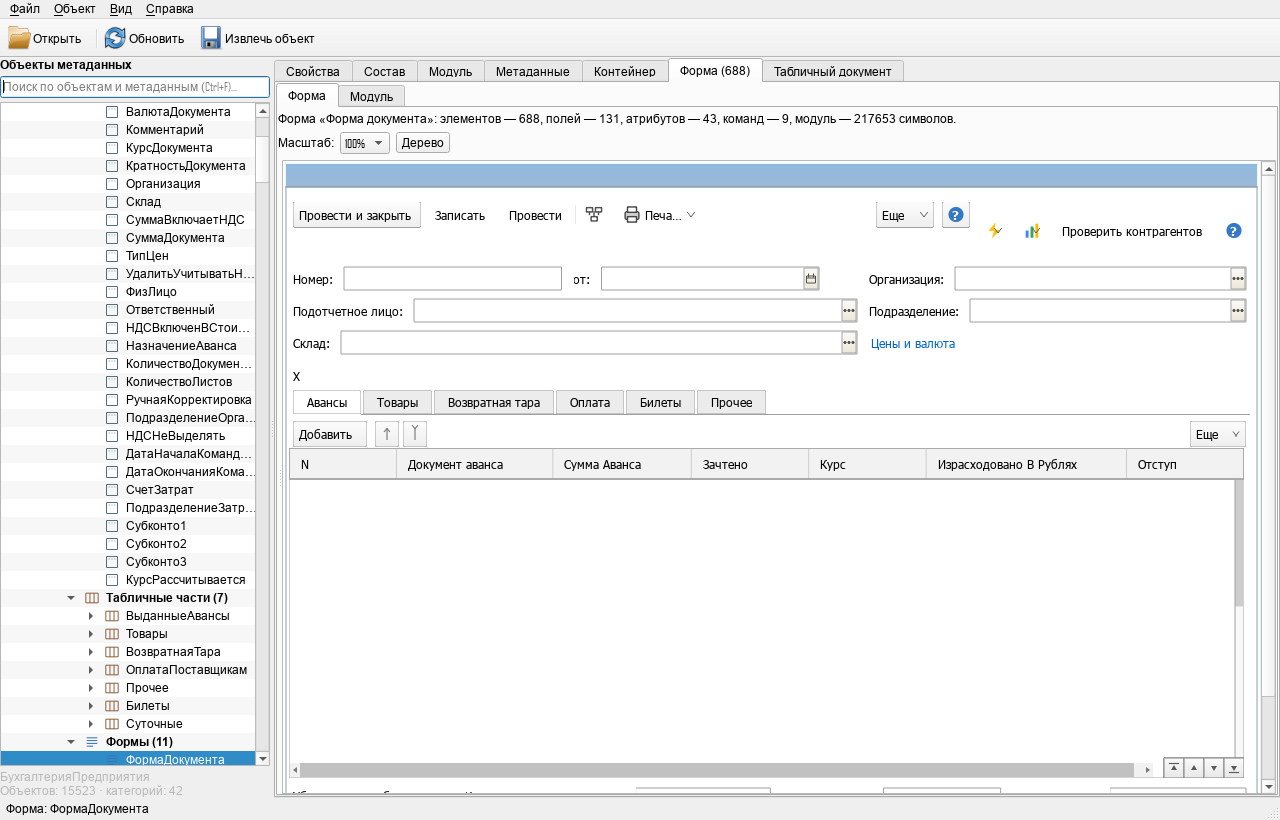
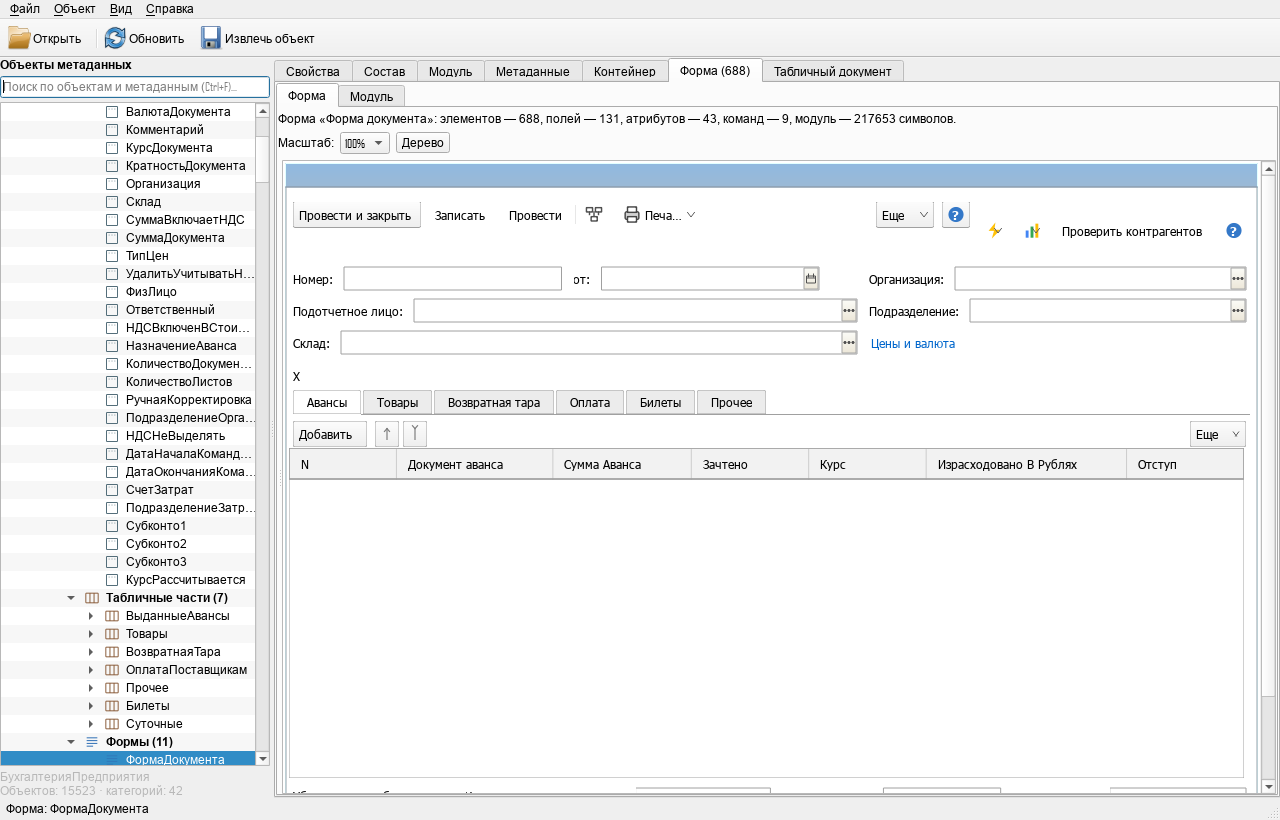
fix(forms): убрана лишняя вертикальная прокрутка таблицы

Changed region(s): [[0.2188, 0.9146, 0.9688, 0.9451], [0.9375, 0.5793, 0.9688, 0.7317]]

diff --git a/src/gui/controls/TableControl.cpp b/src/gui/controls/TableControl.cpp
@@ -24,7 +24,7 @@ void paintTable(QPainter &painter, const TableVisual &visual,
             widths.append(rect.width() / columns.size());
     }
     const double headerHeight = FormStyle::tableHeaderHeight;
-    const double verticalScrollWidth = 10.0;
+    const double verticalScrollWidth = 0.0;
     const double actionWidth = visual.actionColumn ? 37.0 : 0.0;
     const double contentWidth = std::max(1.0, rect.width() - verticalScrollWidth);
     double columnsTotal = actionWidth;
@@ -86,20 +86,6 @@ void paintTable(QPainter &painter, const TableVisual &visual,
     // Пустая таблица конфигуратора — белое поле без строк.
     painter.setPen(FormStyle::tableBorder);
     painter.drawRect(QRectF(rect.left(), rect.top(), rect.width(), tableHeight));
-
-    // Вертикальная полоса прокрутки вдоль правого края таблицы.
-    const QRectF verticalTrack(rect.right() - 9.0,
-                               rect.top() + headerHeight + 1.0, 8.0,
-                               std::max(1.0, tableHeight - headerHeight
-                                   - scrollHeight - 2.0));
-    painter.fillRect(verticalTrack, QColor(248, 248, 248));
-    const double verticalThumb = std::max(24.0, verticalTrack.height() * 0.45);
-    painter.fillRect(QRectF(verticalTrack.left(), verticalTrack.top(),
-                            verticalTrack.width(),
-                            std::min(verticalThumb, verticalTrack.height())),
-                     QColor(205, 205, 205));
-    painter.setPen(QPen(QColor(160, 160, 160), 1.0));
-    painter.drawLine(verticalTrack.topLeft(), verticalTrack.bottomLeft());
 
     if (horizontalScroll) {
         const double cornerWidth = 80.0;

diff --git a/CHANGELOG.md b/CHANGELOG.md
@@ -136,6 +136,8 @@
   разделителями, средняя разница снизилась до 7,90.
 - Поля быстрых отборов ограничены шириной 325 px, как на эталоне; средняя
   разница — 7,88.
+- Убрана лишняя вертикальная полоса прокрутки у правого края таблицы;
+  средняя разница с эталоном — 7,76.
 - В формах элементов справочников добавлены стандартные команды
   «Записать и закрыть» и «Записать»; командная панель таких форм
   определяется и без отдельной группы кнопок.
